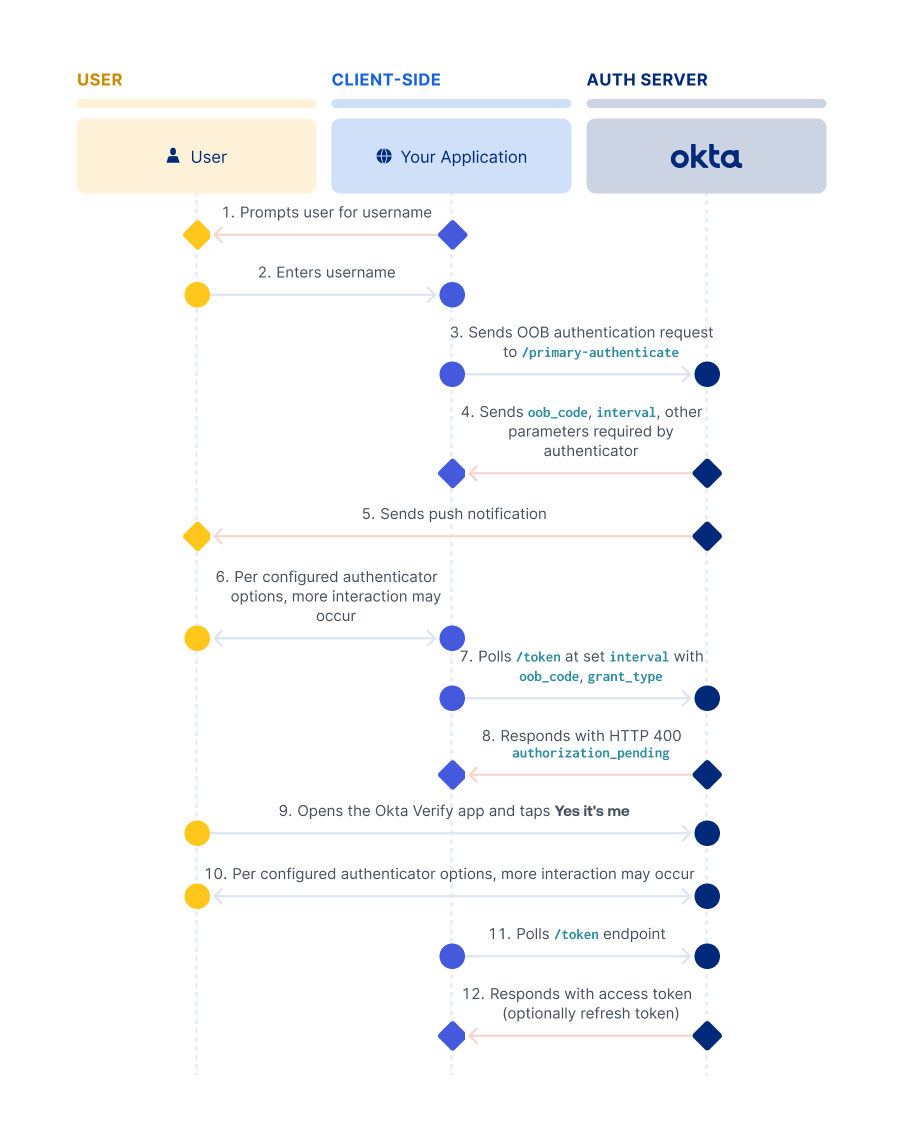
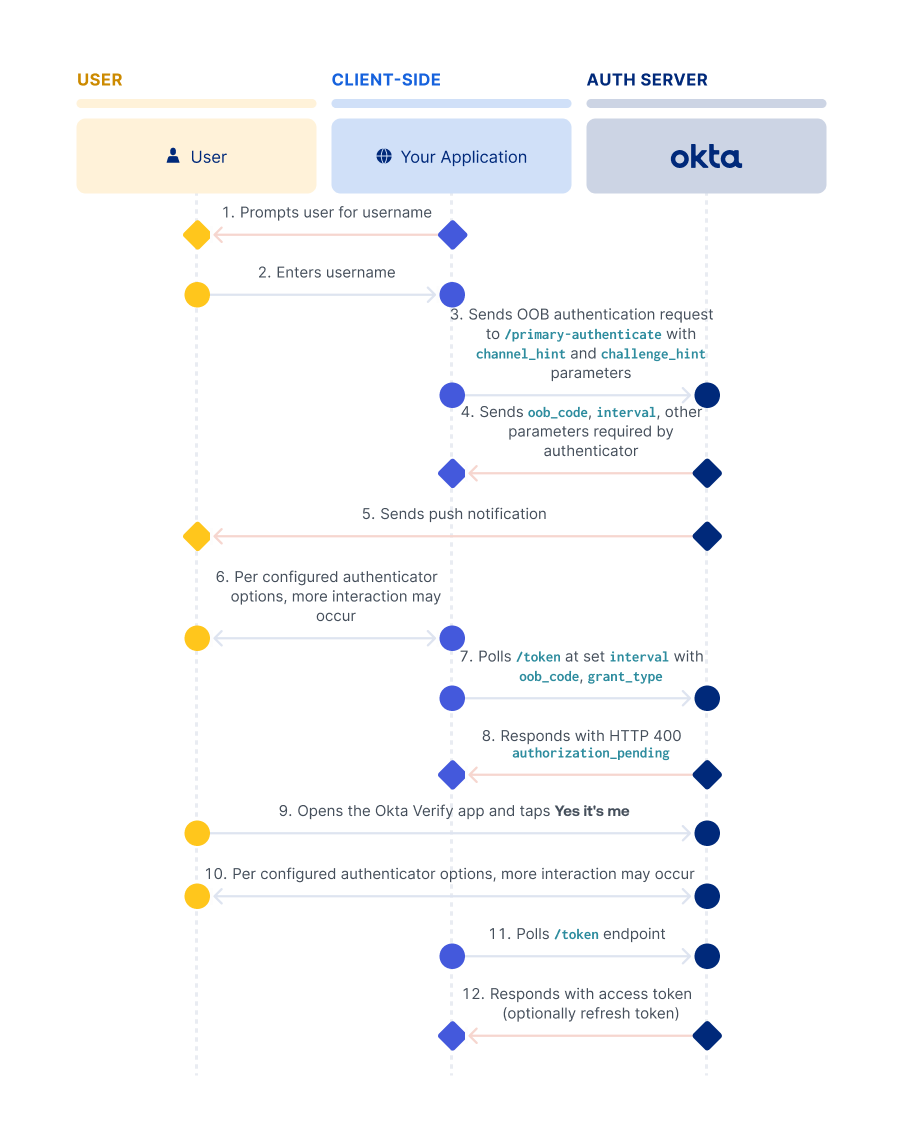
adding challenge_hint

Changed region(s): [[0.4651, 0.2749, 0.8062, 0.3665]]

diff --git a/packages/@okta/vuepress-site/docs/guides/configure-direct-auth-grants/main/coobov/flow-diagram.md b/packages/@okta/vuepress-site/docs/guides/configure-direct-auth-grants/main/coobov/flow-diagram.md
@@ -16,7 +16,7 @@ participant "Authorization Server (Okta) " as okta
 autonumber "<b>#."
 client -> user: Prompts user for username
 user -> client: Enters username
-client -> okta: Sends OOB authentication request to `/primary-authenticate`
+client -> okta: Sends OOB authentication request to `/primary-authenticate` with `channel_hint` and `challenge_hint` parameters
 okta -> client: Sends `oob_code`, `interval`, other parameters required by authenticator
 okta -> user: Sends push notification
 user <-> client: Per configured authenticator options, more interaction may occur
@@ -33,7 +33,7 @@ At a high level, this flow has the following steps:
 
 1. Your client app prompts the user for their username in the app interface.
 1. The user enters their username.
-1. Your app sends the username as a `login_hint` and `channel_hint=push` to the Okta authorization server `/primary-authenticate` endpoint.
+1. Your app sends the username as a `login_hint`, `channel_hint=push`, and `challenge_hint=urn:okta:params:oauth:grant-type:oob` to the Okta authorization server `/primary-authenticate` endpoint.
 
     Register your app so that Okta can accept the authorization request. See [Set up your app](#set-up-your-app) to register and configure your app with Okta. After registration, your app can make an authorization request to Okta. See [Request for tokens](#request-for-tokens).
 

diff --git a/packages/@okta/vuepress-site/docs/guides/configure-direct-auth-grants/main/eoobsv/use-flow.md b/packages/@okta/vuepress-site/docs/guides/configure-direct-auth-grants/main/eoobsv/use-flow.md
@@ -13,7 +13,7 @@ curl --request POST \
   --url https://{yourOktaDomain}/oauth2/v1/primary-authenticate \
   --header 'accept: application/json' \
   --header 'content-type: application/x-www-form-urlencoded' \
-  --data 'client_id={client_id}&login_hint={testuser%40example.com}&channel_hint={sms or voice}'
+  --data 'client_id={client_id}&login_hint={testuser%40example.com}&channel_hint={sms or voice}&challenge_hint=urn:okta:params:oauth:grant-type:oob'
 ```
 
 Note the parameters that are passed:
@@ -21,6 +21,7 @@ Note the parameters that are passed:
 - `client_id`: Matches the client ID of the application that you created in the [Set up your app](#set-up-your-app) section. You can find it at the top of your app's **General** tab.
 - `login_hint`: The email username of a registered Okta user
 - `channel_hint`: The out-of-band channel that the client wants to use. For Phone, use `sms` or `voice`.
+- `challenge_hint`: Specifies that an out-of-band factor is being used as the primary authentication method
 
 For more information on these parameters, see the `/primary-authenticate` [endpoint](https://developer.okta.com/docs/api/openapi/okta-oauth/oauth/tag/OrgAS/#tag/OrgAS/operation/primary-authenticate).
 

diff --git a/packages/@okta/vuepress-site/docs/guides/configure-direct-auth-grants/main/coobov/use-flow.md b/packages/@okta/vuepress-site/docs/guides/configure-direct-auth-grants/main/coobov/use-flow.md
@@ -11,7 +11,7 @@ curl --request POST \
   --url https://{yourOktaDomain}/oauth2/v1/primary-authenticate \
   --header 'accept: application/json' \
   --header 'content-type: application/x-www-form-urlencoded' \
-  --data 'client_id={client_id}&login_hint={testuser%40example.com}&channel_hint=push'
+  --data 'client_id={client_id}&login_hint={testuser%40example.com}&channel_hint=push$challenge_hint=urn:okta:params:oauth:grant-type:oob'
 ```
 
 Note the parameters that are passed:
@@ -19,6 +19,7 @@ Note the parameters that are passed:
 - `client_id`: Matches the client ID of the application that you created in the [Set up your app](#set-up-your-app) section. You can find it at the top of your app's **General** tab.
 - `login_hint`: The email username of a registerd Okta user
 - `channel_hint`: The out-of-band channel used by the client. For Okta Verify, use `push`.
+- `challenge_hint`: Specifies that an out-of-band factor is being used as the primary authentication method
 
 For more information on these parameters, see the `/primary-authenticate` [endpoint](https://developer.okta.com/docs/api/openapi/okta-oauth/oauth/tag/OrgAS/#tag/OrgAS/operation/primary-authenticate).
 

diff --git a/packages/@okta/vuepress-site/docs/guides/configure-direct-auth-grants/main/eoobsv/flow-diagram.md b/packages/@okta/vuepress-site/docs/guides/configure-direct-auth-grants/main/eoobsv/flow-diagram.md
@@ -16,7 +16,7 @@ participant "Authorization Server (Okta) " as okta
 
 autonumber "<b>#."
 client <-> user: Prompts user for username, and user enters username
-client -> okta: Sends `/primary-authenticate` request with `channel_hint`
+client -> okta: Sends `/primary-authenticate` request with `channel_hint` and `challenge_hint`
 okta -> client: Responds with `oob_code`, `channel`, `binding_method`
 okta -> user: Sends out-of-band challenge
 client -> user: Prompts user to enter OTP, and user enters OTP
@@ -32,6 +32,7 @@ At a high level, this flow has the following steps:
 1. Your app sends the following parameters to the Okta authorization server `/primary-authenticate` endpoint:
     * `login_hint`
     * `channel_hint` with a value of `sms` or `voice`
+    * `challenge_hint` with a value of `urn:okta:params:oauth:grant-type:oob`
 
     Register your app so that Okta can accept the authorization request. See [Set up your app](#set-up-your-app) to register and configure your app with Okta. After registration, your app can make an authorization request to Okta. See [Request for tokens](#request-for-tokens).
 
